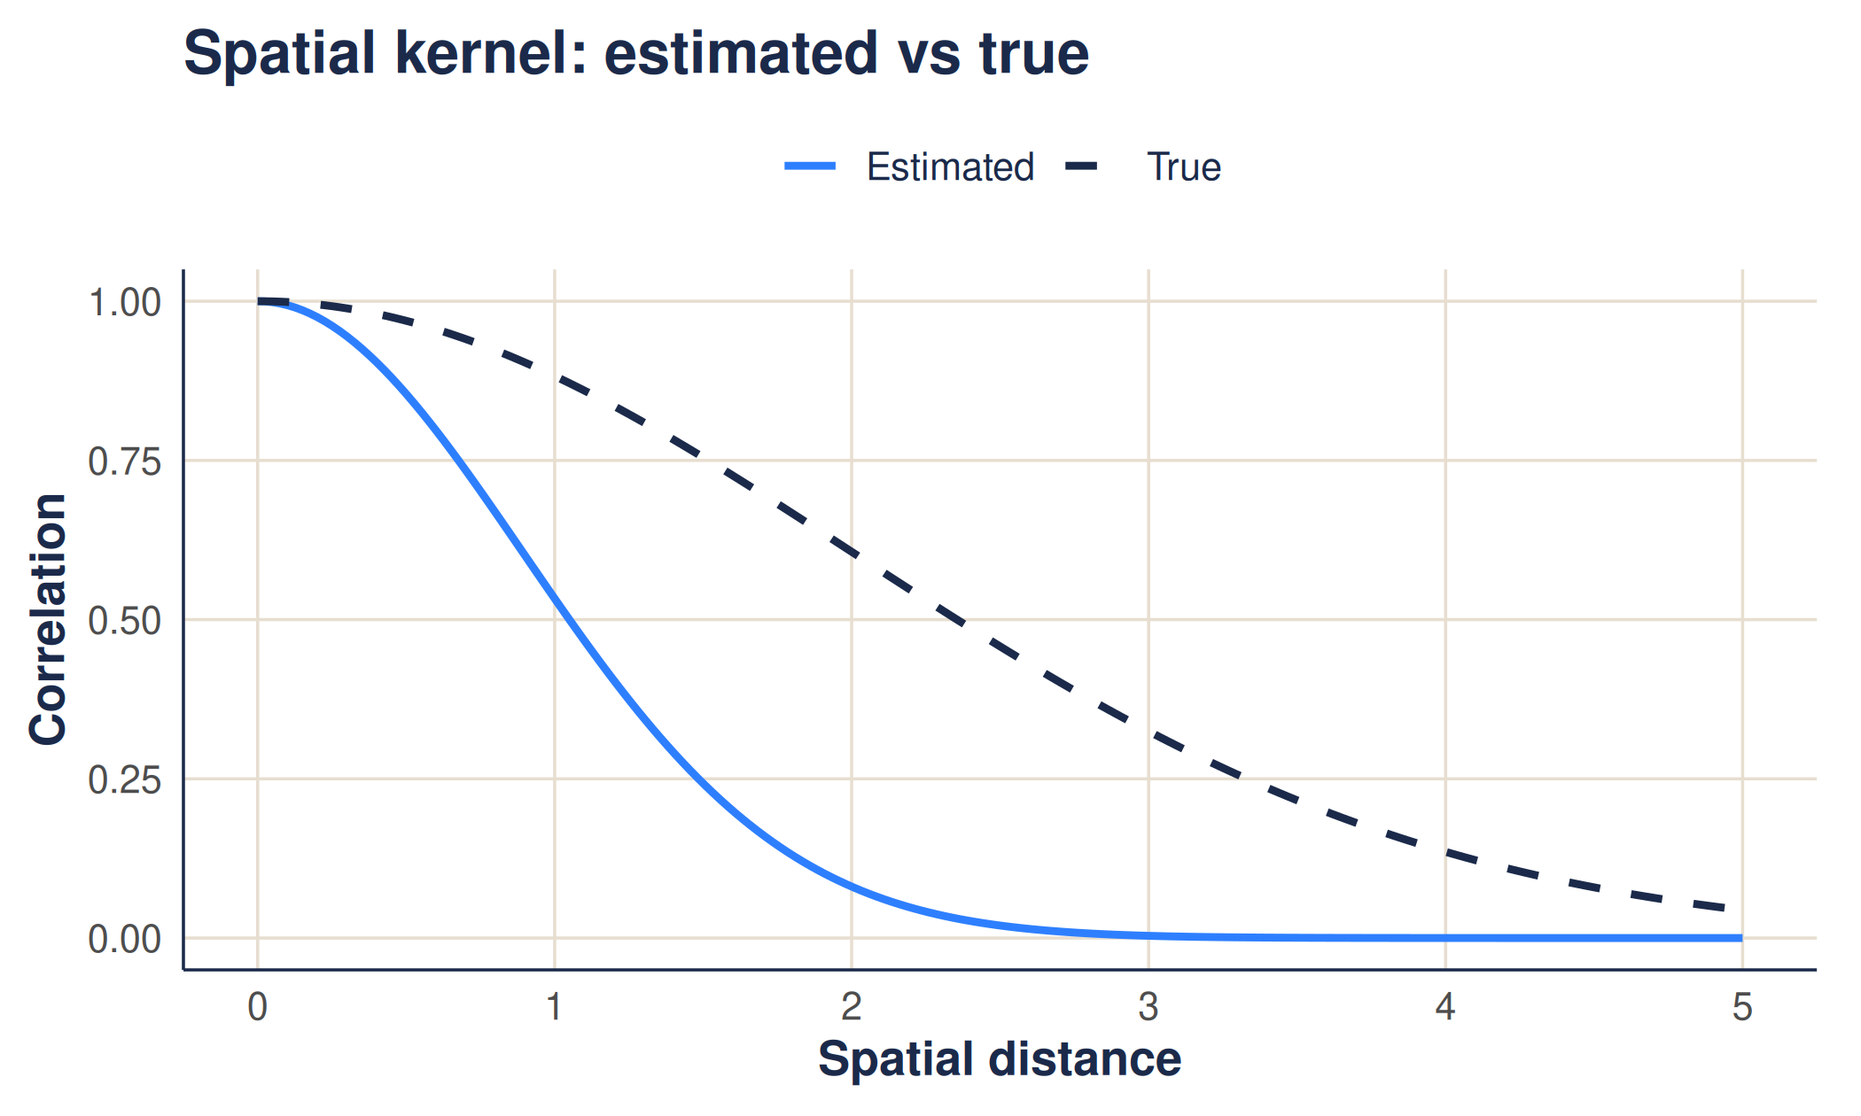
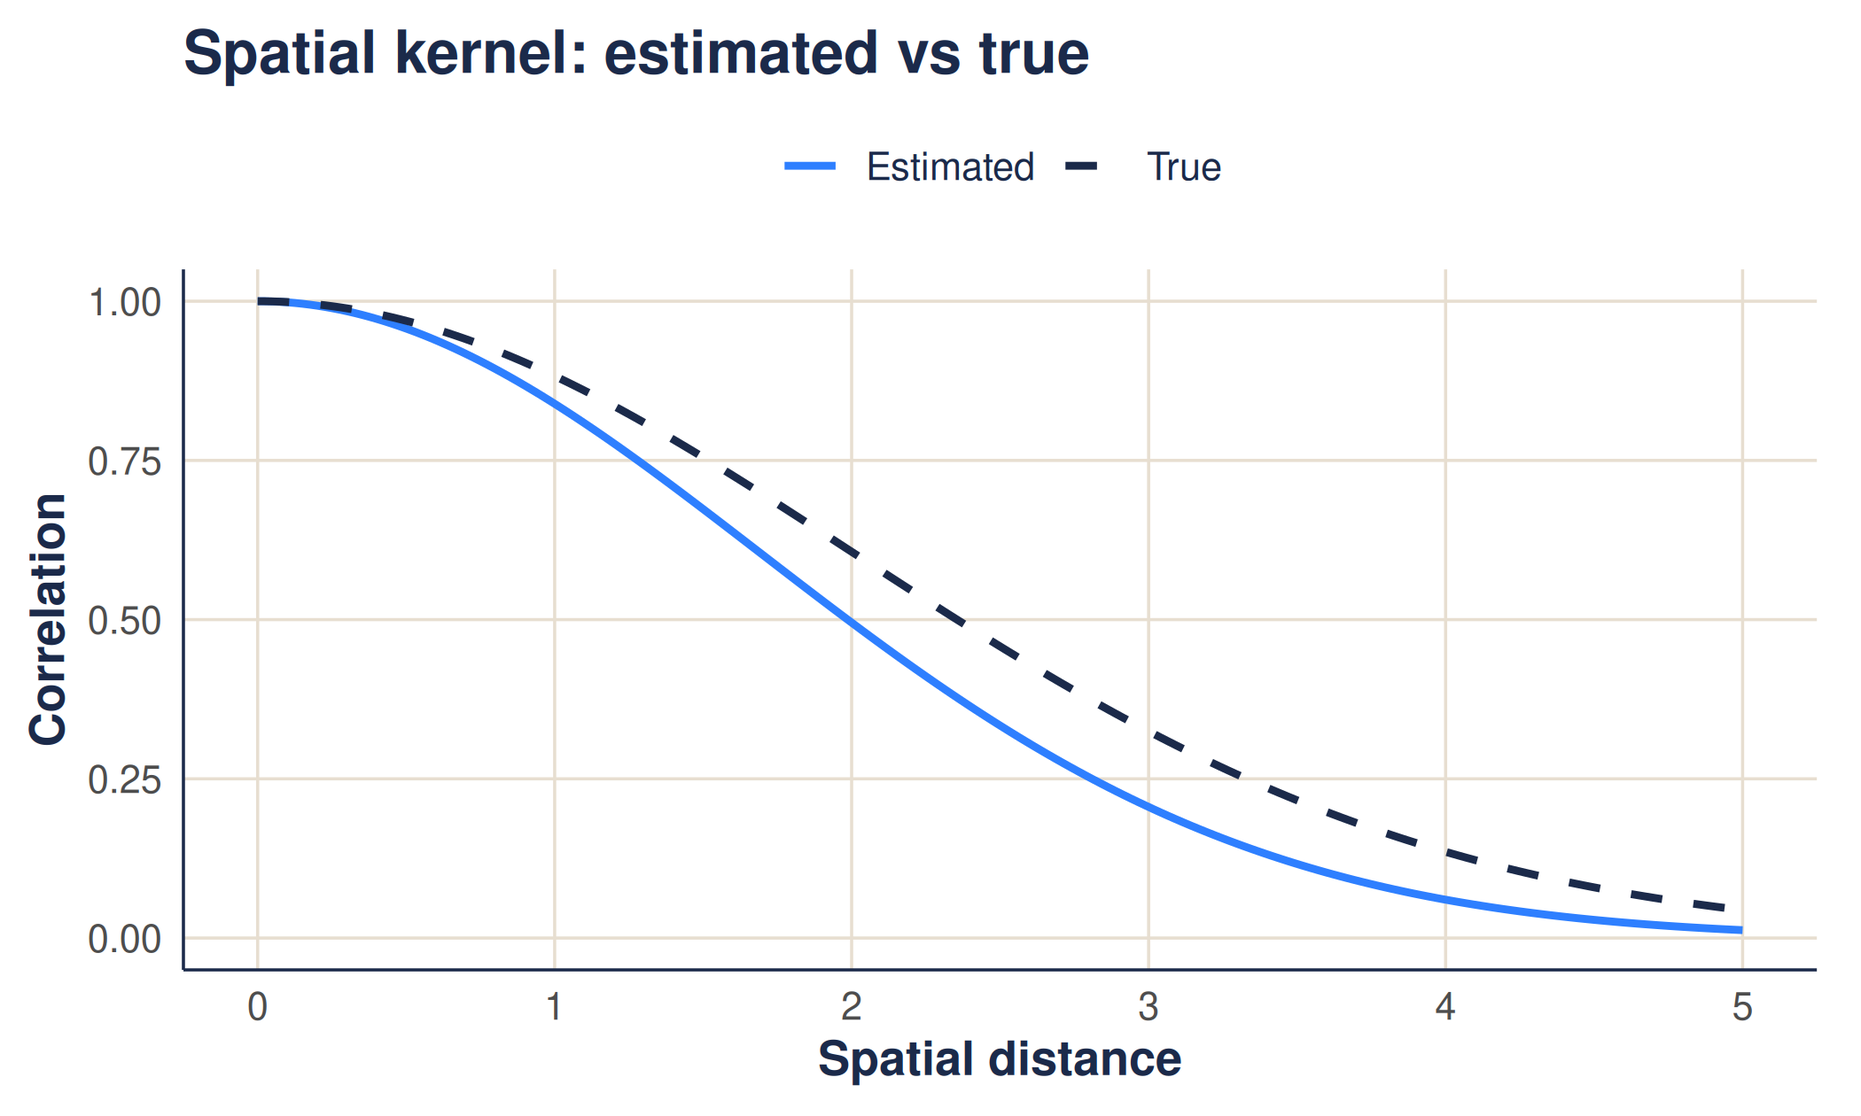
Deploying to gh-pages from @ mrc-ide/weave@9e22e1a5553db18c5200c4ba5e31239a7c62a023 🚀

diff --git a/articles/walkthrough.html b/articles/walkthrough.html
@@ -329,10 +329,42 @@ rather than hours.</p>
 <p><code><a href="../reference/infer_kernel_params.html">infer_kernel_params()</a></code> does all of the above: build the
 plug-in field, then maximise the marginal likelihood over the three
 length-scales plus the nugget ratio.</p>
+<p>We switch on <code>refine = TRUE</code>. Filling the missing weeks
+with a flat per-site mean makes the field look as if the signal dies in
+every gap, which biases the length-scales downward (the seasonal and
+long-run scales suffer most). With <code>refine</code>, the fit instead
+fills each gap with the GP’s <em>own</em> conditional mean and refits a
+handful of times, which removes that gap-induced bias.</p>
+<div class="intuition">
+<p>This loop is exactly the <strong>EM algorithm</strong> for a fit with
+missing data, alternating two steps:</p>
+<ul>
+<li>
+<strong>E-step.</strong> With the current hyperparameters, replace
+each missing week by its expected value under the model — the GP
+<strong>conditional mean</strong> given the weeks we <em>did</em>
+observe (the same kriging solve <code><a href="../reference/gp_predict.html">gp_predict()</a></code>
+performs).</li>
+<li>
+<strong>M-step.</strong> Treat that completed grid as if it were
+fully observed and re-maximise the fast (Kronecker) marginal likelihood
+to get updated hyperparameters.</li>
+</ul>
+<p>Each pass feeds the next, and two or three are enough to converge —
+landing on essentially the estimate we would have got with <em>no</em>
+gaps at all. Crucially, the expensive conditional-mean solve runs only
+once per pass, never inside the optimiser, so the whole correction stays
+cheap. (It removes the bias the <em>gaps</em> cause; the residual
+plug-in attenuation below — from conditioning on a noisy field rather
+than integrating it out — is a separate matter it does not fix.)</p>
+</div>
 <div class="sourceCode" id="cb4"><pre class="downlit sourceCode r">
 <code class="sourceCode R"><span><span class="co"># maximise the GP marginal likelihood to recover the three length-scales</span></span>
 <span><span class="co"># (plus a noise/nugget ratio); the global variance sigma^2 is profiled out.</span></span>
-<span><span class="va">est</span> <span class="op">&lt;-</span> <span class="fu"><a href="../reference/infer_kernel_params.html">infer_kernel_params</a></span><span class="op">(</span><span class="va">obs_data</span>, <span class="va">coordinates</span>, nt <span class="op">=</span> <span class="va">nt</span>, period <span class="op">=</span> <span class="va">period</span><span class="op">)</span></span>
+<span><span class="co"># refine = TRUE fills the gaps with the GP conditional mean and refits, removing</span></span>
+<span><span class="co"># the bias that mean-imputing the missing weeks would otherwise introduce.</span></span>
+<span><span class="va">est</span> <span class="op">&lt;-</span> <span class="fu"><a href="../reference/infer_kernel_params.html">infer_kernel_params</a></span><span class="op">(</span><span class="va">obs_data</span>, <span class="va">coordinates</span>, nt <span class="op">=</span> <span class="va">nt</span>, period <span class="op">=</span> <span class="va">period</span>,</span>
+<span>                           refine <span class="op">=</span> <span class="cn">TRUE</span><span class="op">)</span></span>
 <span></span>
 <span><span class="co"># did we recover the knobs we simulated from?</span></span>
 <span><span class="fu"><a href="https://rdrr.io/r/base/data.frame.html" class="external-link">data.frame</a></span><span class="op">(</span></span>
@@ -341,14 +373,14 @@ length-scales plus the nugget ratio.</p>
 <span>  estimate  <span class="op">=</span> <span class="fu"><a href="https://rdrr.io/r/base/Round.html" class="external-link">round</a></span><span class="op">(</span><span class="fu"><a href="https://rdrr.io/r/base/c.html" class="external-link">c</a></span><span class="op">(</span><span class="va">est</span><span class="op">$</span><span class="va">length_scale</span>, <span class="va">est</span><span class="op">$</span><span class="va">periodic_scale</span>, <span class="va">est</span><span class="op">$</span><span class="va">long_term_scale</span><span class="op">)</span>, <span class="fl">2</span><span class="op">)</span></span>
 <span><span class="op">)</span></span>
 <span><span class="co">#&gt;         parameter truth estimate</span></span>
-<span><span class="co">#&gt; 1    length_scale   2.0     0.89</span></span>
-<span><span class="co">#&gt; 2  periodic_scale   1.1     0.75</span></span>
-<span><span class="co">#&gt; 3 long_term_scale 150.0    55.08</span></span></code></pre></div>
+<span><span class="co">#&gt; 1    length_scale   2.0     1.69</span></span>
+<span><span class="co">#&gt; 2  periodic_scale   1.1     1.04</span></span>
+<span><span class="co">#&gt; 3 long_term_scale 150.0   127.40</span></span></code></pre></div>
 <div class="sourceCode" id="cb5"><pre class="downlit sourceCode r">
 <code class="sourceCode R"><span><span class="co"># the other two pieces estimation returns: the nugget and the profiled variance</span></span>
 <span><span class="fu"><a href="https://rdrr.io/r/base/cat.html" class="external-link">cat</a></span><span class="op">(</span><span class="fu"><a href="https://rdrr.io/r/base/sprintf.html" class="external-link">sprintf</a></span><span class="op">(</span><span class="st">"nugget ratio (noise/signal) = %.2f;  profiled sigma^2 = %.2f\n"</span>,</span>
 <span>            <span class="va">est</span><span class="op">$</span><span class="va">nugget_ratio</span>, <span class="va">est</span><span class="op">$</span><span class="va">sigma2</span><span class="op">)</span><span class="op">)</span></span>
-<span><span class="co">#&gt; nugget ratio (noise/signal) = 0.49;  profiled sigma^2 = 0.51</span></span></code></pre></div>
+<span><span class="co">#&gt; nugget ratio (noise/signal) = 0.17;  profiled sigma^2 = 1.11</span></span></code></pre></div>
 <p>The clearest check is to draw the <strong>fitted</strong> kernels
 (blue) on top of the <strong>true</strong> ones (navy, dashed). If the
 method worked, they overlap.</p>
@@ -409,14 +441,14 @@ interval (<code>lower</code>, <code>upper</code>). The dispersion
 <span></span>
 <span><span class="fu"><a href="https://rdrr.io/r/utils/head.html" class="external-link">head</a></span><span class="op">(</span><span class="va">pred</span><span class="op">)</span>            <span class="co"># one row per cell: id, t, rate, and the 95% interval</span></span>
 <span><span class="co">#&gt;   id t     rate    lower    upper</span></span>
-<span><span class="co">#&gt; 1  1 1 20.74727 9.167142 41.93390</span></span>
-<span><span class="co">#&gt; 2  1 2 19.82157 8.916195 39.25267</span></span>
-<span><span class="co">#&gt; 3  1 3 18.13293 8.176709 35.66125</span></span>
-<span><span class="co">#&gt; 4  1 4 15.86018 7.056011 31.39392</span></span>
-<span><span class="co">#&gt; 5  1 5 13.33049 5.769388 26.84454</span></span>
-<span><span class="co">#&gt; 6  1 6 10.89283 4.532828 22.49001</span></span>
+<span><span class="co">#&gt; 1  1 1 21.33600 9.872323 41.07965</span></span>
+<span><span class="co">#&gt; 2  1 2 19.68997 9.108483 37.78028</span></span>
+<span><span class="co">#&gt; 3  1 3 17.55220 8.042258 33.81216</span></span>
+<span><span class="co">#&gt; 4  1 4 15.13836 6.798913 29.51283</span></span>
+<span><span class="co">#&gt; 5  1 5 12.70435 5.532921 25.26137</span></span>
+<span><span class="co">#&gt; 6  1 6 10.47212 4.377641 21.38402</span></span>
 <span><span class="fu"><a href="https://rdrr.io/r/base/attr.html" class="external-link">attr</a></span><span class="op">(</span><span class="va">pred</span>, <span class="st">"r"</span><span class="op">)</span>       <span class="co"># the NB dispersion used for the interval (estimated)</span></span>
-<span><span class="co">#&gt; [1] 13.48056</span></span></code></pre></div>
+<span><span class="co">#&gt; [1] 13.02461</span></span></code></pre></div>
 <p>The blue line is the predicted mean rate and the blue band the 95%
 prediction interval. It should track the navy true-mean line and cover
 the points — including the magenta held-out weeks it never saw.</p>
@@ -435,11 +467,11 @@ the time.</p>
 <span></span>
 <span><span class="co"># coverage: fraction of held-out counts inside the 95% interval (target ~0.95)</span></span>
 <span><span class="fu"><a href="https://rdrr.io/r/base/mean.html" class="external-link">mean</a></span><span class="op">(</span><span class="va">held_out</span><span class="op">$</span><span class="va">y</span> <span class="op">&gt;=</span> <span class="va">held_out</span><span class="op">$</span><span class="va">lower</span> <span class="op">&amp;</span> <span class="va">held_out</span><span class="op">$</span><span class="va">y</span> <span class="op">&lt;=</span> <span class="va">held_out</span><span class="op">$</span><span class="va">upper</span><span class="op">)</span></span>
-<span><span class="co">#&gt; [1] 0.9290466</span></span>
+<span><span class="co">#&gt; [1] 0.9223947</span></span>
 <span></span>
 <span><span class="co"># how well the predicted rate tracks the true rate at those weeks</span></span>
 <span><span class="fu"><a href="https://rdrr.io/r/stats/cor.html" class="external-link">cor</a></span><span class="op">(</span><span class="va">held_out</span><span class="op">$</span><span class="va">rate</span>, <span class="va">held_out</span><span class="op">$</span><span class="va">lambda</span><span class="op">)</span></span>
-<span><span class="co">#&gt; [1] 0.9853691</span></span></code></pre></div>
+<span><span class="co">#&gt; [1] 0.989185</span></span></code></pre></div>
 <div class="intuition">
 <p>If the coverage lands near 95% the bands are honest; if the predicted
 rate correlates strongly with the true rate, the gap-filling is doing
@@ -476,10 +508,12 @@ heteroscedastic (it grows with the rate); we summarise it with a single
 ratio
 <math display="inline" xmlns="http://www.w3.org/1998/Math/MathML"><semantics><mi>η</mi><annotation encoding="application/x-tex">\eta</annotation></semantics></math>.</li>
 <li>
-<strong>Hyperparameter fitting mean-imputes missing cells</strong>
-in the plug-in field (though <code><a href="../reference/gp_predict.html">gp_predict()</a></code> does not — it
-conditions on the observed cells, so its interval widens over
-gaps).</li>
+<strong>Missing cells.</strong> With <code>refine = TRUE</code>
+(used above) the fit fills the gaps with the GP conditional mean and
+refits, so missingness no longer biases the length-scales; the default
+<code>refine = FALSE</code> mean-imputes the gaps and is faster but
+attenuated. (<code><a href="../reference/gp_predict.html">gp_predict()</a></code> always conditions on the observed
+cells only, so its interval widens over gaps either way.)</li>
 <li>
 <strong>The dispersion
 <math display="inline" xmlns="http://www.w3.org/1998/Math/MathML"><semantics><mi>r</mi><annotation encoding="application/x-tex">r</annotation></semantics></math></strong>

diff --git a/reference/infer_kernel_params.html b/reference/infer_kernel_params.html
@@ -64,7 +64,9 @@ MCMC, no iterative solver.</p>
 <span>  priors <span class="op">=</span> <span class="fu"><a href="default_kernel_priors.html">default_kernel_priors</a></span><span class="op">(</span><span class="op">)</span>,</span>
 <span>  start <span class="op">=</span> <span class="fu"><a href="https://rdrr.io/r/base/c.html" class="external-link">c</a></span><span class="op">(</span>length_scale <span class="op">=</span> <span class="fl">1</span>, periodic_scale <span class="op">=</span> <span class="fl">1</span>, long_term_scale <span class="op">=</span> <span class="fl">100</span>, nugget_ratio <span class="op">=</span></span>
 <span>    <span class="fl">0.1</span><span class="op">)</span>,</span>
-<span>  n_sites <span class="op">=</span> <span class="cn">NULL</span></span>
+<span>  n_sites <span class="op">=</span> <span class="cn">NULL</span>,</span>
+<span>  refine <span class="op">=</span> <span class="cn">FALSE</span>,</span>
+<span>  refine_iter <span class="op">=</span> <span class="fl">3L</span></span>
 <span><span class="op">)</span></span></code></pre></div>
     </div>
 
@@ -123,6 +125,18 @@ reproducible estimate. Note: this subsamples *sites* only, not time points
 (the temporal kernel needs the full series to resolve the periodic and
 long-term scales).</p></dd>
 
+
+<dt id="arg-refine">refine<a class="anchor" aria-label="anchor" href="#arg-refine"></a></dt>
+<dd><p>Logical; if `TRUE`, run `refine_iter` EM-style refinement passes
+that re-fit after filling the gaps with the GP conditional mean (see
+Details). Default `FALSE` (the fast single-pass estimate). Recommended when
+missingness is non-trivial.</p></dd>
+
+
+<dt id="arg-refine-iter">refine_iter<a class="anchor" aria-label="anchor" href="#arg-refine-iter"></a></dt>
+<dd><p>Number of refinement passes when `refine = TRUE` (default
+`3`). Ignored when `refine = FALSE`.</p></dd>
+
 </dl></div>
     <div class="section level2">
     <h2 id="value">Value<a class="anchor" aria-label="anchor" href="#value"></a></h2>
@@ -135,6 +149,15 @@ long-term scales).</p></dd>
     <p>This is the recommended quick estimator when a fast hyperparameter estimate is
 wanted (e.g. as a starting point for a downstream sampler, or as a standalone
 summary).</p>
+<p>Set `refine` to enable an EM-style refinement that removes the bias missing
+cells introduce. Each pass refits after replacing the gaps with the GP
+posterior (conditional) mean under the current estimate – a correlation-aware
+fill, not the flat mean-imputation – using the same matrix-free PCG solve as
+[gp_predict()]. The expensive observed-cell solve runs only once per pass (not
+inside the optimiser), so it stays cheap, and it typically converges in 2-3
+passes to the estimate you would get with no missing data at all. It does not
+remove the intrinsic plug-in attenuation (conditioning on a noisy field rather
+than integrating the latent field out), only the part caused by the gaps.</p>
     </div>
 
   </main><aside class="col-md-3"><nav id="toc" aria-label="Table of contents"><h2>On this page</h2>

diff --git a/articles/walkthrough.md b/articles/walkthrough.md
@@ -204,11 +204,41 @@ answer. This is why the estimate takes a second rather than hours.
 does all of the above: build the plug-in field, then maximise the
 marginal likelihood over the three length-scales plus the nugget ratio.
 
+We switch on `refine = TRUE`. Filling the missing weeks with a flat
+per-site mean makes the field look as if the signal dies in every gap,
+which biases the length-scales downward (the seasonal and long-run
+scales suffer most). With `refine`, the fit instead fills each gap with
+the GP’s *own* conditional mean and refits a handful of times, which
+removes that gap-induced bias.
+
+This loop is exactly the **EM algorithm** for a fit with missing data,
+alternating two steps:
+
+- **E-step.** With the current hyperparameters, replace each missing
+  week by its expected value under the model — the GP **conditional
+  mean** given the weeks we *did* observe (the same kriging solve
+  [`gp_predict()`](https://mrc-ide.github.io/weave/reference/gp_predict.md)
+  performs).
+- **M-step.** Treat that completed grid as if it were fully observed and
+  re-maximise the fast (Kronecker) marginal likelihood to get updated
+  hyperparameters.
+
+Each pass feeds the next, and two or three are enough to converge —
+landing on essentially the estimate we would have got with *no* gaps at
+all. Crucially, the expensive conditional-mean solve runs only once per
+pass, never inside the optimiser, so the whole correction stays cheap.
+(It removes the bias the *gaps* cause; the residual plug-in attenuation
+below — from conditioning on a noisy field rather than integrating it
+out — is a separate matter it does not fix.)
+
 ``` r
 
 # maximise the GP marginal likelihood to recover the three length-scales
 # (plus a noise/nugget ratio); the global variance sigma^2 is profiled out.
-est <- infer_kernel_params(obs_data, coordinates, nt = nt, period = period)
+# refine = TRUE fills the gaps with the GP conditional mean and refits, removing
+# the bias that mean-imputing the missing weeks would otherwise introduce.
+est <- infer_kernel_params(obs_data, coordinates, nt = nt, period = period,
+                           refine = TRUE)
 
 # did we recover the knobs we simulated from?
 data.frame(
@@ -217,9 +247,9 @@ data.frame(
   estimate  = round(c(est$length_scale, est$periodic_scale, est$long_term_scale), 2)
 )
 #>         parameter truth estimate
-#> 1    length_scale   2.0     0.89
-#> 2  periodic_scale   1.1     0.75
-#> 3 long_term_scale 150.0    55.08
+#> 1    length_scale   2.0     1.69
+#> 2  periodic_scale   1.1     1.04
+#> 3 long_term_scale 150.0   127.40
 ```
 
 ``` r
@@ -227,7 +257,7 @@ data.frame(
 # the other two pieces estimation returns: the nugget and the profiled variance
 cat(sprintf("nugget ratio (noise/signal) = %.2f;  profiled sigma^2 = %.2f\n",
             est$nugget_ratio, est$sigma2))
-#> nugget ratio (noise/signal) = 0.49;  profiled sigma^2 = 0.51
+#> nugget ratio (noise/signal) = 0.17;  profiled sigma^2 = 1.11
 ```
 
 The clearest check is to draw the **fitted** kernels (blue) on top of
@@ -289,14 +319,14 @@ pred <- gp_predict(obs_data, coordinates, hyperparameters = est,
 
 head(pred)            # one row per cell: id, t, rate, and the 95% interval
 #>   id t     rate    lower    upper
-#> 1  1 1 20.74727 9.167142 41.93390
-#> 2  1 2 19.82157 8.916195 39.25267
-#> 3  1 3 18.13293 8.176709 35.66125
-#> 4  1 4 15.86018 7.056011 31.39392
-#> 5  1 5 13.33049 5.769388 26.84454
-#> 6  1 6 10.89283 4.532828 22.49001
+#> 1  1 1 21.33600 9.872323 41.07965
+#> 2  1 2 19.68997 9.108483 37.78028
+#> 3  1 3 17.55220 8.042258 33.81216
+#> 4  1 4 15.13836 6.798913 29.51283
+#> 5  1 5 12.70435 5.532921 25.26137
+#> 6  1 6 10.47212 4.377641 21.38402
 attr(pred, "r")       # the NB dispersion used for the interval (estimated)
-#> [1] 13.48056
+#> [1] 13.02461
 ```
 
 The blue line is the predicted mean rate and the blue band the 95%
@@ -318,11 +348,11 @@ held_out <- merge(df_miss[, c("id", "t", "lambda", "y")], pred_df,
 
 # coverage: fraction of held-out counts inside the 95% interval (target ~0.95)
 mean(held_out$y >= held_out$lower & held_out$y <= held_out$upper)
-#> [1] 0.9290466
+#> [1] 0.9223947
 
 # how well the predicted rate tracks the true rate at those weeks
 cor(held_out$rate, held_out$lambda)
-#> [1] 0.9853691
+#> [1] 0.989185
 ```
 
 If the coverage lands near 95% the bands are honest; if the predicted
@@ -346,11 +376,13 @@ shortcuts that make it quick also limit it:
   $`\sigma^2`$ and amplifies noise at low-count sites.
 - **One homoscedastic nugget.** Real count noise is heteroscedastic (it
   grows with the rate); we summarise it with a single ratio $`\eta`$.
-- **Hyperparameter fitting mean-imputes missing cells** in the plug-in
-  field (though
-  [`gp_predict()`](https://mrc-ide.github.io/weave/reference/gp_predict.md)
-  does not — it conditions on the observed cells, so its interval widens
-  over gaps).
+- **Missing cells.** With `refine = TRUE` (used above) the fit fills the
+  gaps with the GP conditional mean and refits, so missingness no longer
+  biases the length-scales; the default `refine = FALSE` mean-imputes
+  the gaps and is faster but attenuated.
+  ([`gp_predict()`](https://mrc-ide.github.io/weave/reference/gp_predict.md)
+  always conditions on the observed cells only, so its interval widens
+  over gaps either way.)
 - **The dispersion $`r`$** is recovered by a rough method of moments, so
   the *width* of the count prediction interval inherits that error.
 - **A point estimate.** We report the maximiser, with no uncertainty on

diff --git a/reference/infer_kernel_params.md b/reference/infer_kernel_params.md
@@ -19,7 +19,9 @@ infer_kernel_params(
   priors = default_kernel_priors(),
   start = c(length_scale = 1, periodic_scale = 1, long_term_scale = 100, nugget_ratio =
     0.1),
-  n_sites = NULL
+  n_sites = NULL,
+  refine = FALSE,
+  refine_iter = 3L
 )
 ```
 
@@ -77,6 +79,18 @@ infer_kernel_params(
   \*sites\* only, not time points (the temporal kernel needs the full
   series to resolve the periodic and long-term scales).
 
+- refine:
+
+  Logical; if \`TRUE\`, run \`refine_iter\` EM-style refinement passes
+  that re-fit after filling the gaps with the GP conditional mean (see
+  Details). Default \`FALSE\` (the fast single-pass estimate).
+  Recommended when missingness is non-trivial.
+
+- refine_iter:
+
+  Number of refinement passes when \`refine = TRUE\` (default \`3\`).
+  Ignored when \`refine = FALSE\`.
+
 ## Value
 
 A list with \`length_scale\`, \`periodic_scale\`, \`long_term_scale\`,
@@ -89,3 +103,14 @@ success).
 This is the recommended quick estimator when a fast hyperparameter
 estimate is wanted (e.g. as a starting point for a downstream sampler,
 or as a standalone summary).
+
+Set \`refine\` to enable an EM-style refinement that removes the bias
+missing cells introduce. Each pass refits after replacing the gaps with
+the GP posterior (conditional) mean under the current estimate – a
+correlation-aware fill, not the flat mean-imputation – using the same
+matrix-free PCG solve as \[gp_predict()\]. The expensive observed-cell
+solve runs only once per pass (not inside the optimiser), so it stays
+cheap, and it typically converges in 2-3 passes to the estimate you
+would get with no missing data at all. It does not remove the intrinsic
+plug-in attenuation (conditioning on a noisy field rather than
+integrating the latent field out), only the part caused by the gaps.
